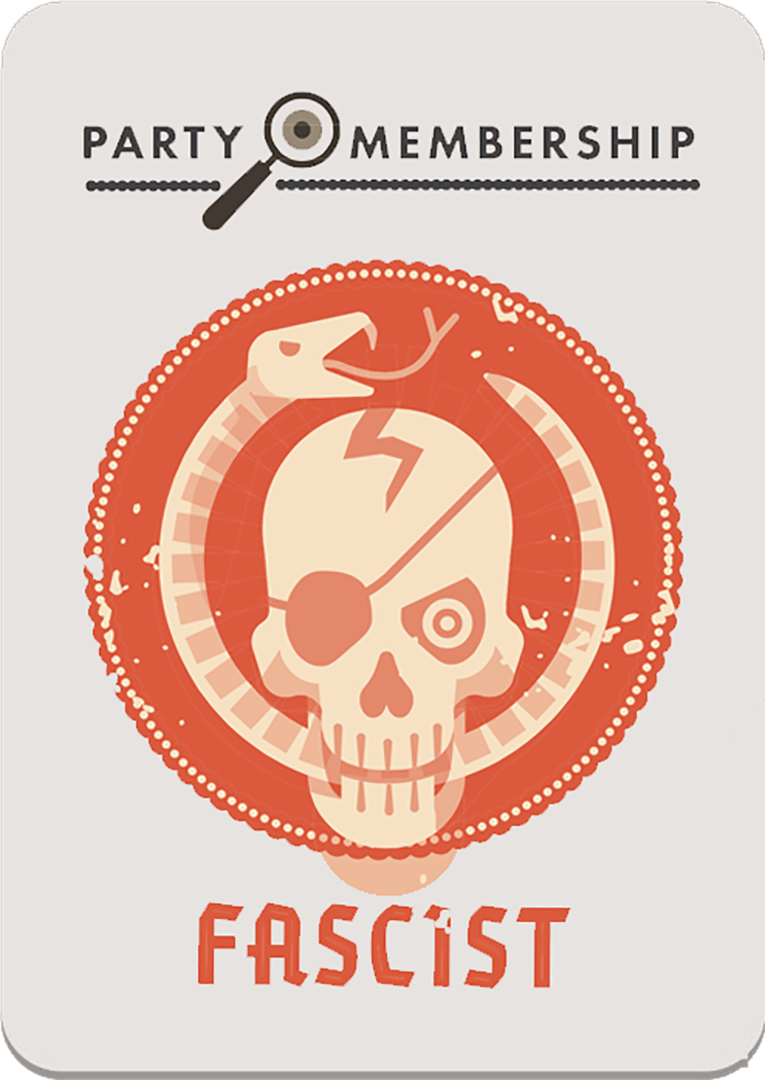
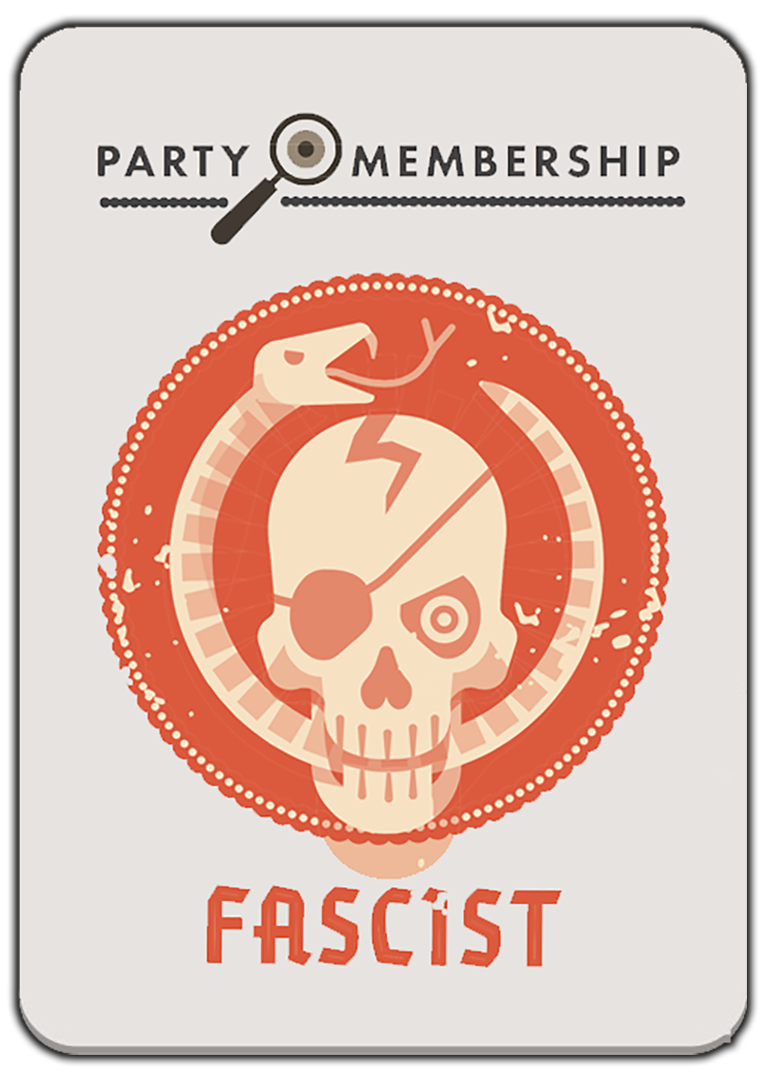
updated asssets to include a dropshadow

diff --git a/services/application/src/components/GameEnvelope/GameEnvelope.js b/services/application/src/components/GameEnvelope/GameEnvelope.js
@@ -15,6 +15,10 @@ import {
 } from 'grommet';
 
 import { StatusInfoSmall } from "grommet-icons";
+
+import { FaUserSecret } from "react-icons/fa";
+import { AiFillIdcard } from "react-icons/ai";
+
 import { deepMerge } from 'grommet/utils';
 import ReactTooltip from "react-tooltip";
 
@@ -112,8 +116,8 @@ class GameEnvelope extends Component {
         const role = this.props.data.fascist ? this.props.data.hitler ? RoleHitler : RoleFascist : RoleLiberal;
         const member = this.props.data.fascist ? MemberFascist : MemberLiberal;
         const memberColour = this.props.data.fascist ? orange : blue;
-        const roleText = !this.props.data.fascist ? "LIBERAL" : this.props.data.hitler ? "HITELER" : "FASCIST";
-        const memberText = !this.props.data.fascist ? "LIBERAL" : "FASCIST";
+        const roleText = !this.props.data.fascist ? " LIBERAL" : this.props.data.hitler ? " HITELER" : " FASCIST";
+        const memberText = !this.props.data.fascist ? " LIBERAL" : " FASCIST";
 
         return (
             <Grommet theme={customFocus} background="none">
@@ -136,8 +140,18 @@ class GameEnvelope extends Component {
                         data-tip data-for={'role' + this.state.id}
                     >
                         <Image src={role} width="100%"/>
-                        <ReactTooltip id={'role' + this.state.id} type='info' backgroundColor={memberColour}>
-                            <span>{roleText}</span>
+                        <ReactTooltip 
+                            id={'role' + this.state.id} 
+                            type='info' 
+                            backgroundColor={memberColour}
+                            overridePosition={ ({ left, top },currentEvent, currentTarget, node) => {
+                                top = top - 10;
+                                return { top, left }
+                            }}
+                            effect="solid"
+                            className="center-row tooltop-round policy-tool-tip"
+                        >
+                            <FaUserSecret color={offWhite}/> <span>{roleText}</span>
                         </ReactTooltip>
                     </Box>
                     <Box 
@@ -151,8 +165,18 @@ class GameEnvelope extends Component {
                         data-tip data-for={'member' + this.state.id}
                     >
                         <Image src={member} width="100%" />
-                        <ReactTooltip id={'member' + this.state.id} type='info' backgroundColor={memberColour}>
-                            <span>{memberText}</span>
+                        <ReactTooltip
+                            id={'member' + this.state.id} 
+                            type='info' 
+                            backgroundColor={memberColour}
+                            overridePosition={ ({ left, top },currentEvent, currentTarget, node) => {
+                                top = top - 10;
+                                return { top, left }
+                            }}
+                            effect="solid"
+                            className="center-row tooltop-round policy-tool-tip"
+                        >
+                            <AiFillIdcard color={offWhite} /> <span>{memberText}</span>
                         </ReactTooltip>
                     </Box>
                     <Box 

diff --git a/services/application/src/components/GameDash/GameDash.js b/services/application/src/components/GameDash/GameDash.js
@@ -181,7 +181,7 @@ class GameDash extends Component {
 
             var testData = {
                 host: true,
-                fascist:true,
+                fascist:false,
                 hitler:false,
                 intel:'',
                 drawPile: 8,
@@ -309,7 +309,7 @@ class GameDash extends Component {
                             >
                                 <GiCardDraw color={offWhite}/>
                                 <Text color={offWhite}>{this.state.drawPile}</Text>
-                                <ReactTooltip id="drawPile" type='info' backgroundColor={offWhite} textColor={grey}>
+                                <ReactTooltip className="tooltop-round policy-tool-tip" id="drawPile" type='info' backgroundColor={offWhite} textColor={grey}>
                                     DRAW PILE
                                 </ReactTooltip>
                             </Box>
@@ -323,7 +323,7 @@ class GameDash extends Component {
                             >
                                 <FaSkull color={orange}/>
                                 <Text color={orange}>{this.state.numberOfFascists}</Text>
-                                <ReactTooltip id="numFas" type='info' backgroundColor={orange} >
+                                <ReactTooltip className="tooltop-round policy-tool-tip" id="numFas" type='info' backgroundColor={orange} >
                                     NUMBER OF FASCISTS
                                 </ReactTooltip>
                             </Box>
@@ -351,7 +351,7 @@ class GameDash extends Component {
                                     <BsCircle color={offWhite}/>
                                 }
 
-                                <ReactTooltip id="eTracker" type='info' backgroundColor={offWhite} textColor={grey}>
+                                <ReactTooltip className="tooltop-round policy-tool-tip" id="eTracker" type='info' backgroundColor={offWhite} textColor={grey}>
                                     ELECTION TRACKER
                                 </ReactTooltip>
                             </Box>
@@ -365,7 +365,7 @@ class GameDash extends Component {
                             >
                                 <GiEagleEmblem color={blue}/>
                                 <Text color={blue}>{this.state.numberOfLiberals}</Text>
-                                <ReactTooltip id="numLib" type='info' backgroundColor={blue}>
+                                <ReactTooltip className="tooltop-round policy-tool-tip" id="numLib" type='info' backgroundColor={blue}>
                                     NUMBER OF LIBERALS
                                 </ReactTooltip>
                             </Box>
@@ -379,7 +379,7 @@ class GameDash extends Component {
                             >
                                 <GiCardDiscard color={offWhite}/>
                                 <Text color={offWhite}>{this.state.discardPile}</Text>
-                                <ReactTooltip id="discardPile" type='info' backgroundColor={offWhite} textColor={grey}>
+                                <ReactTooltip className="tooltop-round policy-tool-tip" id="discardPile" type='info' backgroundColor={offWhite} textColor={grey}>
                                     DISCARD PILE
                                 </ReactTooltip>
                             </Box>

diff --git a/services/application/src/style/index.css b/services/application/src/style/index.css
@@ -11,15 +11,11 @@ body {
 }
 
 .game-card {
-    -webkit-box-shadow: 4px 4px 11px -3px rgba(0, 0, 0, 0.74);
-    -moz-box-shadow: 4px 4px 11px -3px rgba(0, 0, 0, 0.74);
-    box-shadow: 4px 4px 11px -3px rgba(0, 0, 0, 0.74);
+
 }
 
 .game-card-border {
-    -webkit-box-shadow: 4px 4px 11px -3px rgba(0, 0, 0, 0.74);
-    -moz-box-shadow: 4px 4px 11px -3px rgba(0, 0, 0, 0.74);
-    box-shadow: 4px 4px 11px -3px rgba(0, 0, 0, 0.74);
+
 }
 
 .game-card:hover, .game-card-border:hover, .game-card-no-shadow:hover{
@@ -40,4 +36,21 @@ body {
     padding-left: 10px !important;
     padding-right: 10px !important;
     font-weight: bold !important;
+    transition-duration: 0.25s !important;
+}
+
+.center-row {
+    display: flex;
+    flex-direction: row;
+    align-items: center;
+}
+
+.center-row > *
+{
+    margin-left: 5px;
+}
+
+.tooltop-round {
+    border-radius: 20px;
+    transition-duration: 0.25s !important;
 }

diff --git a/services/application/src/components/GameDash/GameDash.css b/services/application/src/components/GameDash/GameDash.css
@@ -1,3 +1,7 @@
+*, ** {
+    transition-duration: 0.25s !important;
+}
+
 .fanCard{
     position:relative;
     transition: transform .2s;
